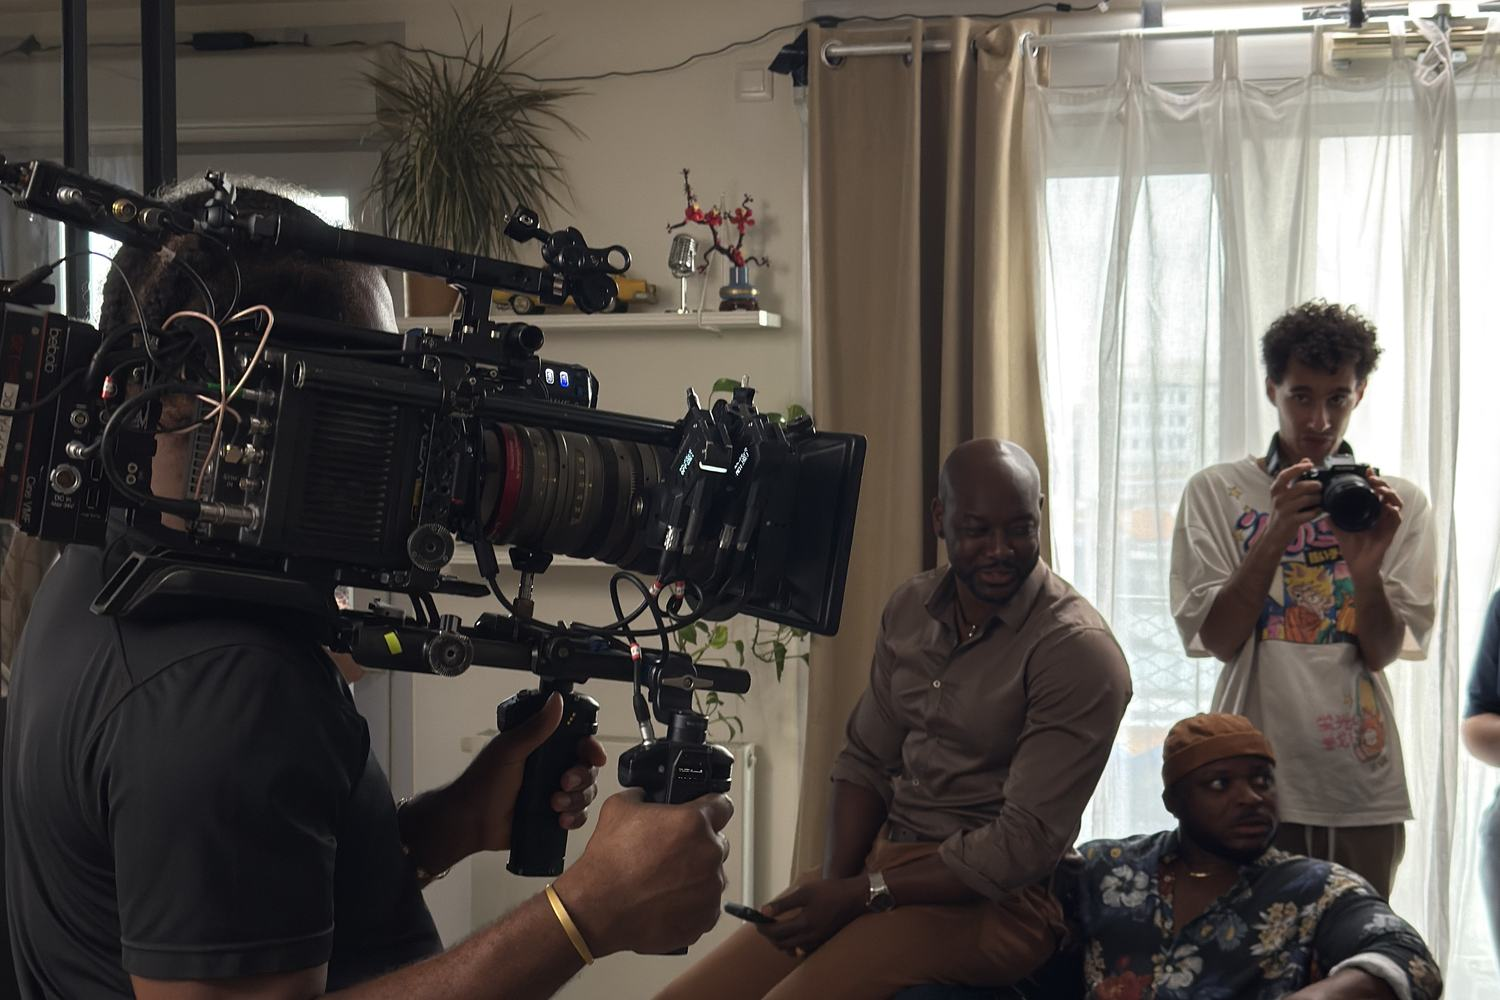
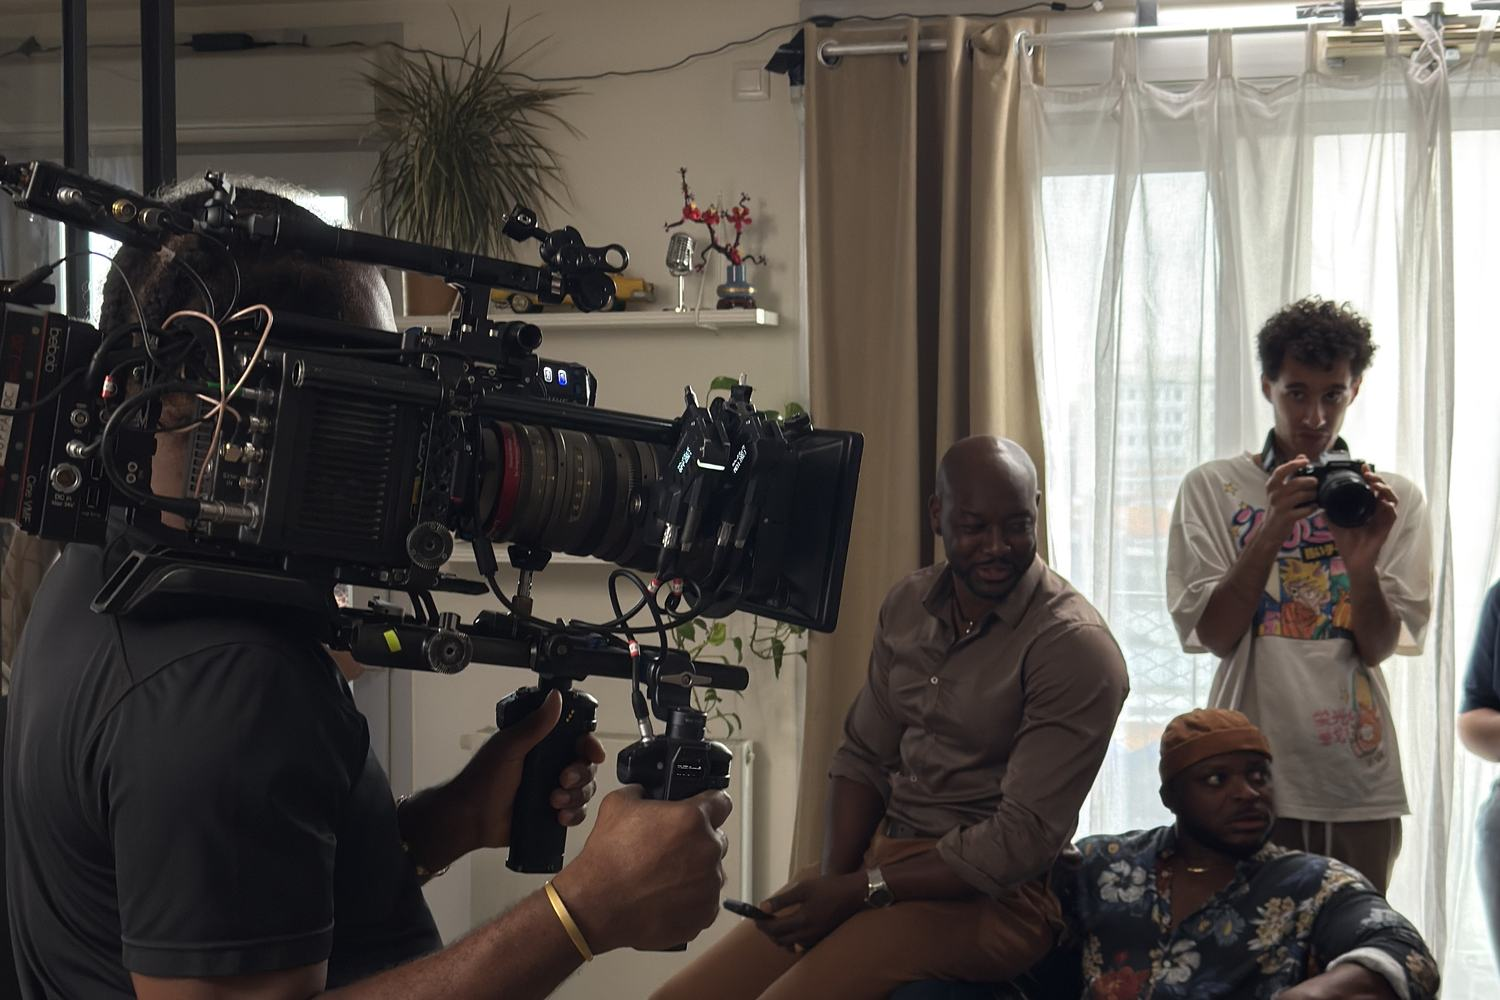
BBC : la répétition avec toute l'équipe revient ; les photos en portrait s'agrandissent sans recadrage

diff --git a/src/pages/FilmDetail.jsx b/src/pages/FilmDetail.jsx
@@ -546,7 +546,9 @@ const VimeoPlayer = ({ videoId, hash, title }) => {
 // Grille de photos de plateau. Au clic, la photo s'ouvre en plein écran
 // (mêmes styles que la modale des images du film) ; flèches et Échap au clavier.
 const PhotosPlateau = ({ plateau, titre }) => {
-  const { photos, credit, legende, lien } = plateau;
+  const { photos, credit, legende, lien, entieres = [] } = plateau;
+  // Agrandissement : version non recadrée quand la photo est en portrait (entieres = numéros concernés)
+  const enGrand = (i) => (entieres.includes(i + 1) ? photos[i].replace(/\.jpg$/, '-entiere.jpg') : photos[i]);
   const [ouverte, setOuverte] = useState(null);
   const aller = (i) => setOuverte((i + photos.length) % photos.length);
 
@@ -585,7 +587,7 @@ const PhotosPlateau = ({ plateau, titre }) => {
         <div className="image-modal-overlay" role="dialog" aria-label="Photo en plein écran" onClick={() => setOuverte(null)}>
           <div className="image-modal" onClick={(e) => e.stopPropagation()}>
             <button className="image-modal__close" onClick={() => setOuverte(null)} aria-label="Fermer">×</button>
-            <img src={photos[ouverte]} alt={`${titre} - sur le plateau ${ouverte + 1}`} className="image-modal__image" />
+            <img src={enGrand(ouverte)} alt={`${titre} - sur le plateau ${ouverte + 1}`} className="image-modal__image" />
             <button className="image-modal__nav image-modal__nav--prev" onClick={() => aller(ouverte - 1)} aria-label="Photo précédente">‹</button>
             <button className="image-modal__nav image-modal__nav--next" onClick={() => aller(ouverte + 1)} aria-label="Photo suivante">›</button>
             <div className="image-modal__counter" aria-live="polite">{ouverte + 1} / {photos.length}</div>

diff --git a/src/data/projectsData.js b/src/data/projectsData.js
@@ -1168,7 +1168,8 @@ export const projectsData = {
         // Photos de tournage tirées de la bibliothèque Photos, redressées et cadrées pour la grille
         plateau: {
           titre: 'Sur le plateau',
-          photos: Array.from({ length: 6 }, (_, i) => `/images/bbc-plateau/bbc-plateau-${i + 1}.jpg`),
+          photos: Array.from({ length: 7 }, (_, i) => `/images/bbc-plateau/bbc-plateau-${i + 1}.jpg`),
+          entieres: [5, 6], // portraits : non recadrés à l'agrandissement
         },
         description: 'Xavier et Awa rentrent chez eux et croisent Madame Kogo dans l\'ascenseur. Elle apprend qu\'Awa va avoir une fille et confronte Xavier sur son passé, lui indiquant qu\'il doit procéder à un processus de réparation avant de devenir père.',
         specs: {
